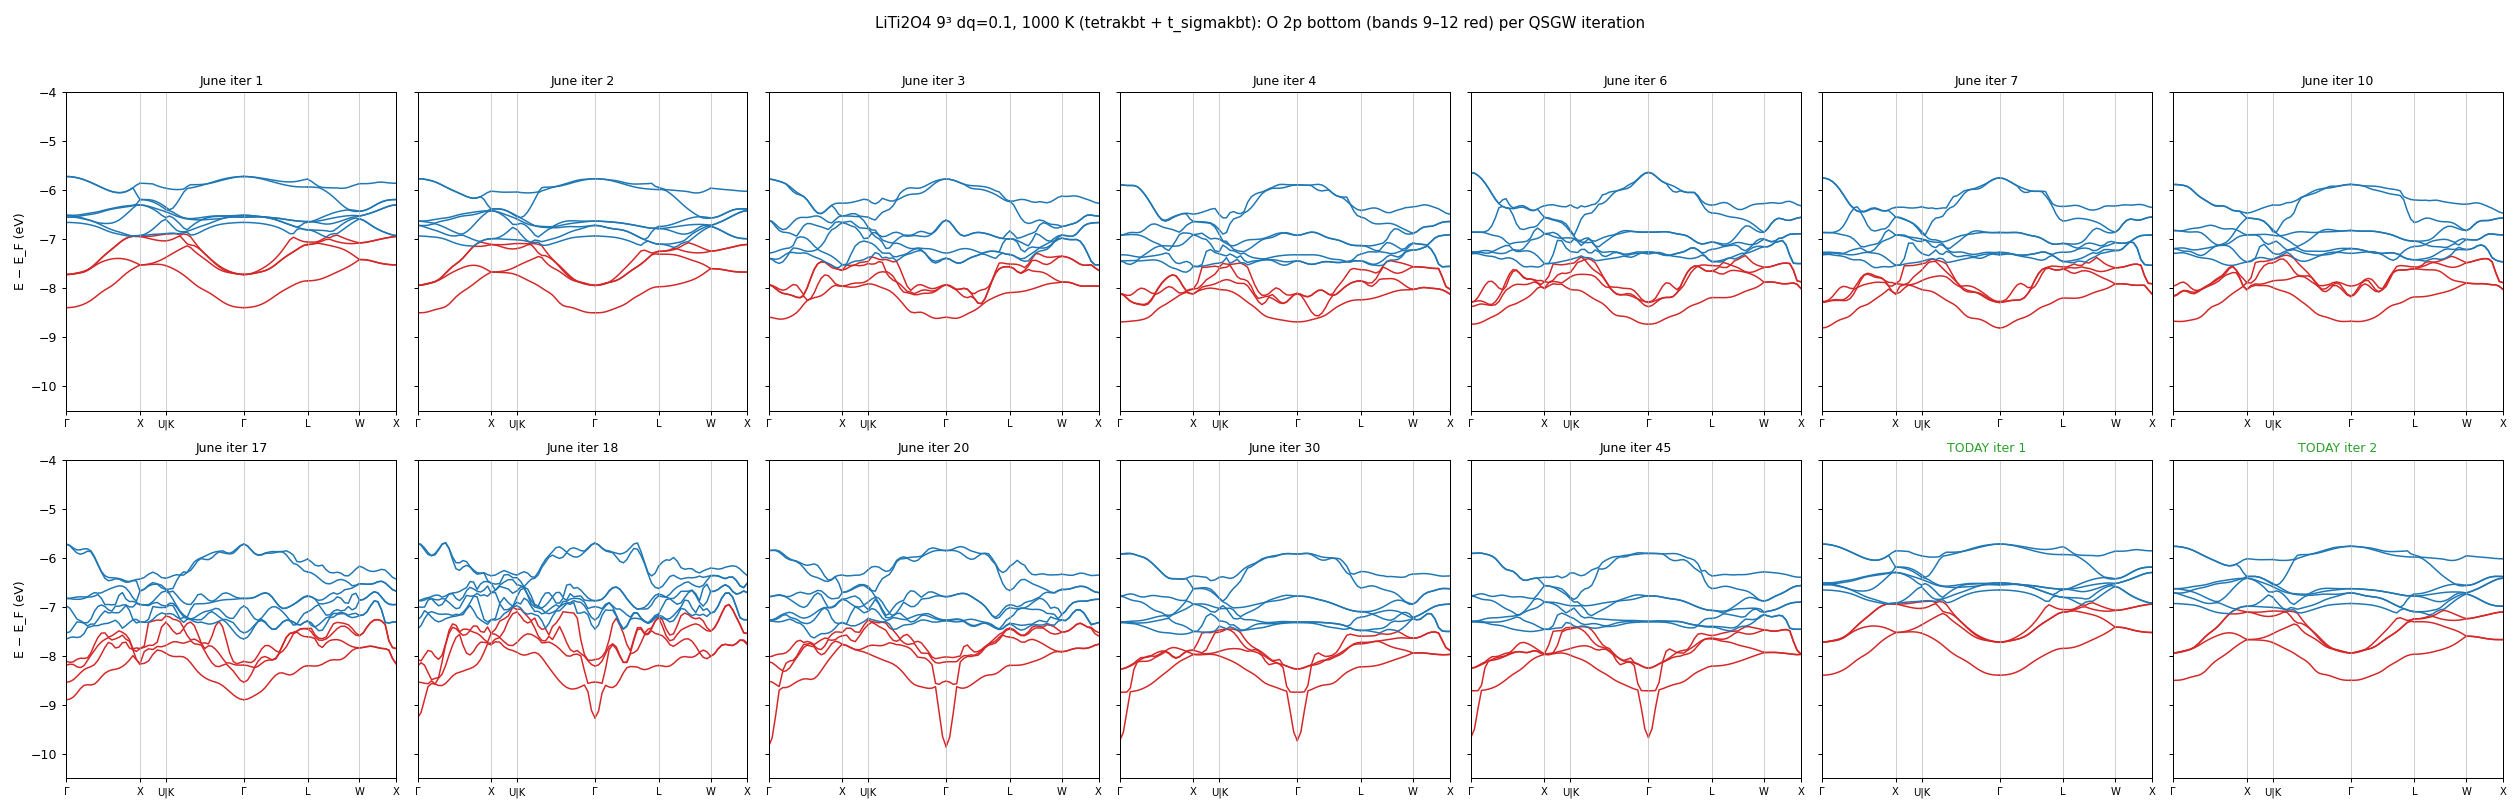
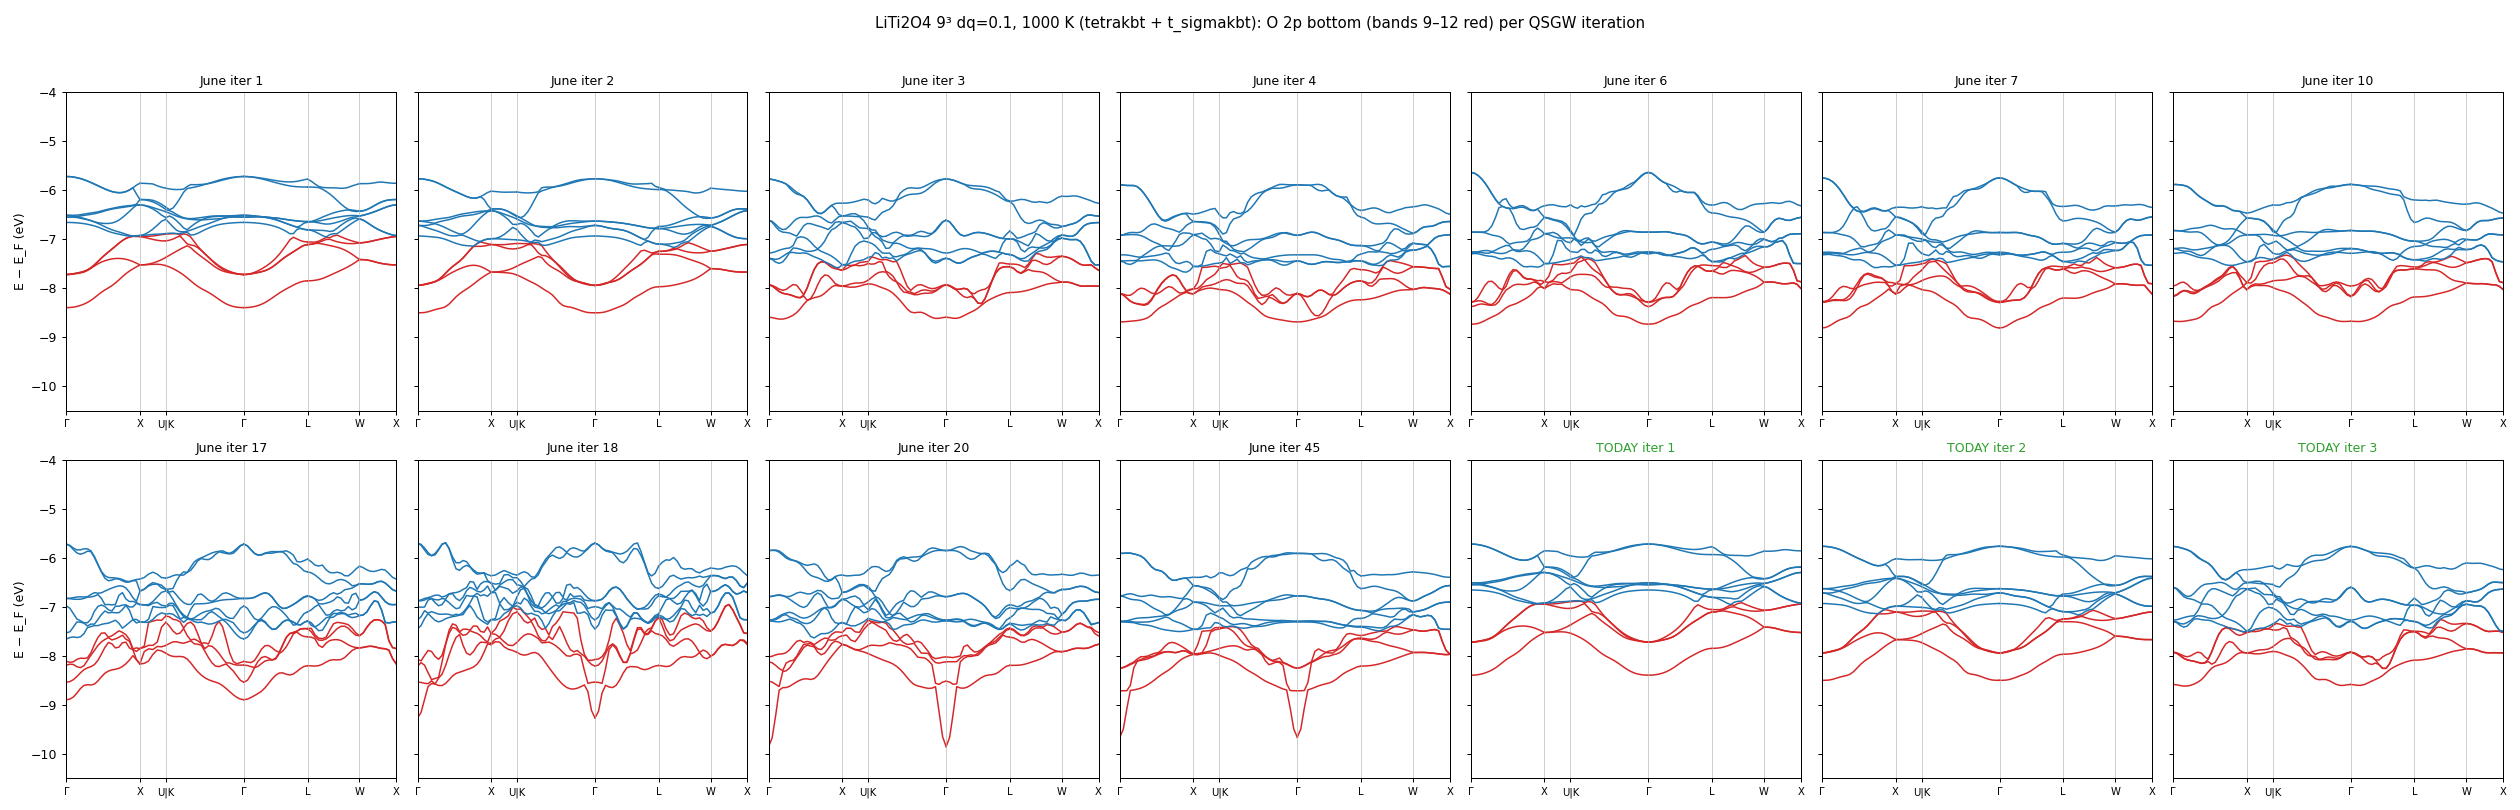
kBT_research.md: 9^3 iteration 3 reproduces the roughening (25 meV, no SEc jump)

Changed region(s): [[0.4333, 0.6481, 1.0, 0.8642], [0.7738, 0.6481, 0.8048, 0.679], [0.619, 0.5247, 0.65, 0.5556]]

diff --git a/Samples/kBT/kBT_research.md b/Samples/kBT/kBT_research.md
@@ -123,7 +123,13 @@ SEc の差、valence 帯 state 9〜24、全 k）:
 - 18:00 iter 2 完了（8880 s、前半は 6³ と GPU 共有）。これも 6 月と一致: 荒れ 8.9 / 10.8 meV
   （6 月 8.9 / 10.8）、SEc 最大差 9 meV・平均 0.2 meV、ehf −109754.052 eV（6 月 −109754.052）。
   iter 1→2 の SEc ジャンプ無し（max 0.83 eV）。次の iter 3 で 6 月は 29 meV に荒れた。
-- 18:10 反復ごとの band の履歴図（`plot_band_history.py`、6 月 iter 1〜45 と今日の iter 1, 2、
+- 20:15 **iter 3 で荒れが再現**: 荒れ指標 25.4 / 32.4 meV（6 月 28.7 / 37.5）、band 10〜12 に
+  6 月と同じ細かい波。ここから 6 月とのずれが出始める（SEc 最大差 0.19 eV、ehf −109760.160
+  対 −109760.773 eV）が定性的には同じ軌道。**iter 3 の荒れは SEc の飛びではない**
+  （iter 2→3 の |ΔSEc| 最大 0.98 eV、>1.5 eV は 0 件）— 6 月の iter 6 型の事故（数十 eV）とは
+  別の、もっと穏やかな機構。候補: iter 3 は `mixsigma` の Anderson 外挿が初めて効く反復
+  （nmix=3、iter 2 までは線形混合）。6³ でも iter 3 で 7.3 → 10.7 meV の小さな上がり。
+- 18:10 反復ごとの band の履歴図（`plot_band_history.py`、6 月 iter 1〜45 と今日の iter 1〜3、
   O 2p の底 −10〜−4 eV、赤 = band 9〜12、青 = 13〜19）:
 
   ![O 2p bands per iteration, 9^3 1000 K](LiTi2O4/plots/bands_history_999_T1000.png)
